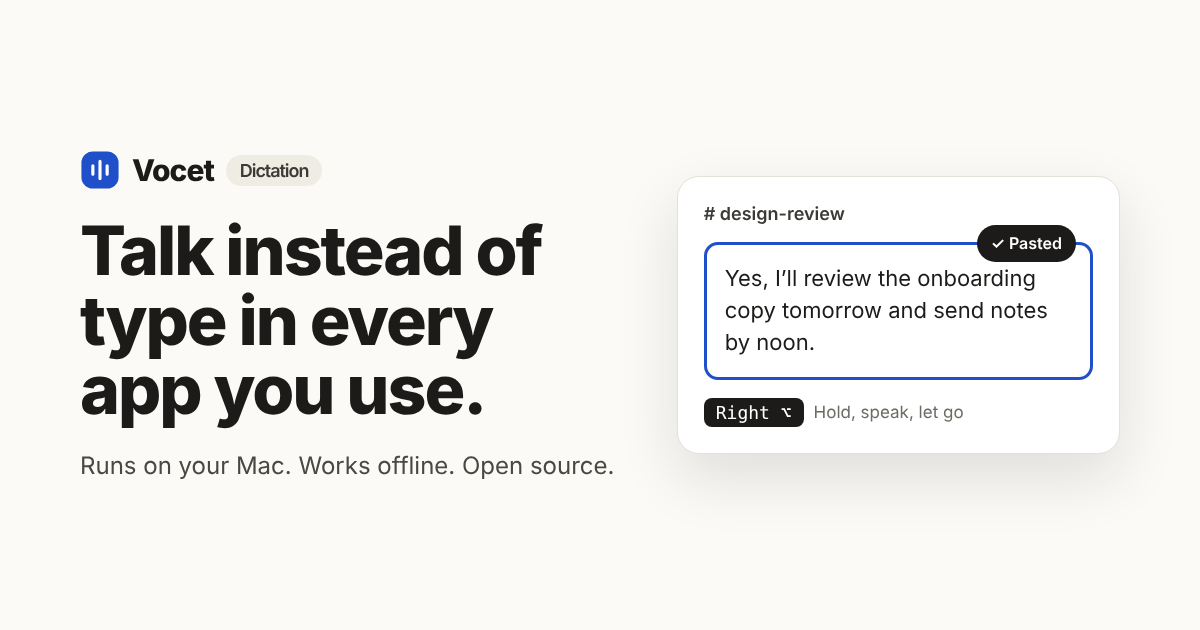
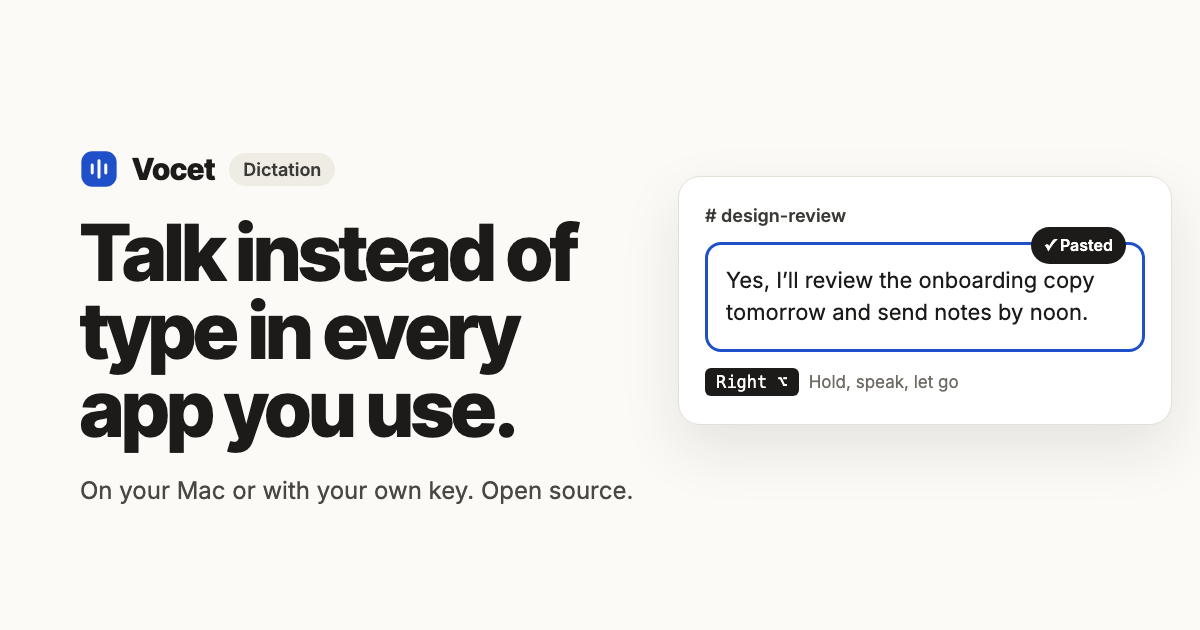
fix(site): describe today's setup, drop unqualified offline claim
- Setup steps now match the shipped onboarding: two permissions, then
  a key or the on-device model (downloaded once in Settings), then a
  test dictation with Right Option or a recorded key. The model only
  downloads during setup once U8 lands.
- og.png: replace "Works offline" with "On your Mac or with your own
  key", re-rendered at 1200x630.

Addresses Codex's SITE-234/235 round 1 findings. Refs #211

diff --git a/site/index.html b/site/index.html
@@ -2121,22 +2121,28 @@
       </section>
 
       <section id="setup" class="wrap section">
-        <h2 class="h2">Setup ends with your first real dictation</h2>
+        <h2 class="h2">Setup ends with a test dictation</h2>
         <ol class="setup-steps">
           <li>
             <span class="num">1</span><strong>Allow two permissions</strong
             ><span
-              >Microphone, and Accessibility to paste at your cursor — it doesn’t read your screen.
-              The model downloads meanwhile.</span
+              >Microphone, and Accessibility to paste at your cursor — it doesn’t read your
+              screen.</span
             >
           </li>
           <li>
-            <span class="num">2</span><strong>Pick your dictation shortcut</strong
-            ><span>Right Option (⌥) by default, or record a different key.</span>
+            <span class="num">2</span><strong>Choose how speech becomes text</strong
+            ><span
+              >Paste a Groq or OpenAI key, or use the model on your Mac (download it once in
+              Settings).</span
+            >
           </li>
           <li>
-            <span class="num">3</span><strong>Say a sentence</strong
-            ><span>It’s recorded, transcribed and pasted — so you know it all works.</span>
+            <span class="num">3</span><strong>Try your key</strong
+            ><span
+              >Right Option (⌥) by default, or record a different one. Hold it, say a sentence, and
+              let go.</span
+            >
           </li>
         </ol>
       </section>
